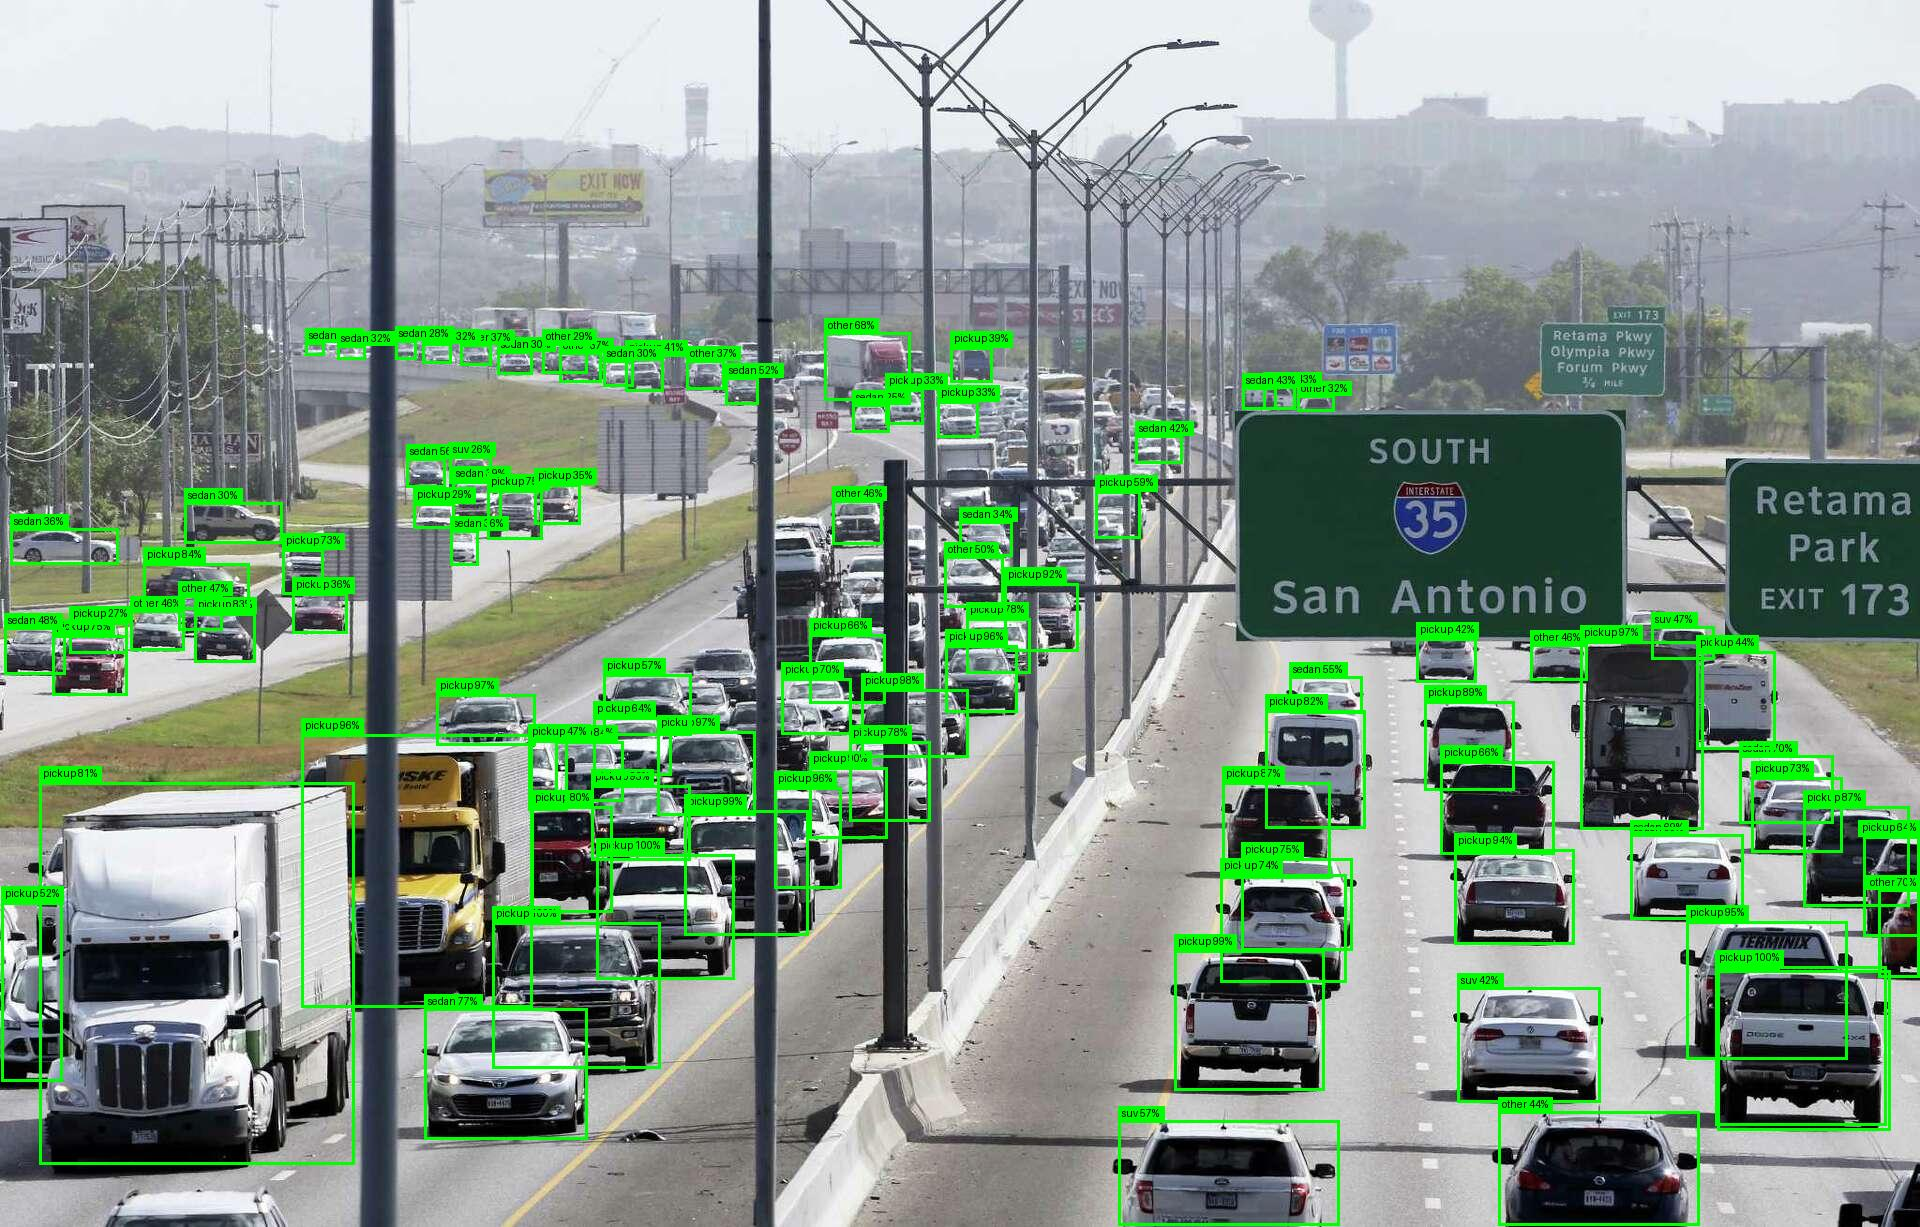
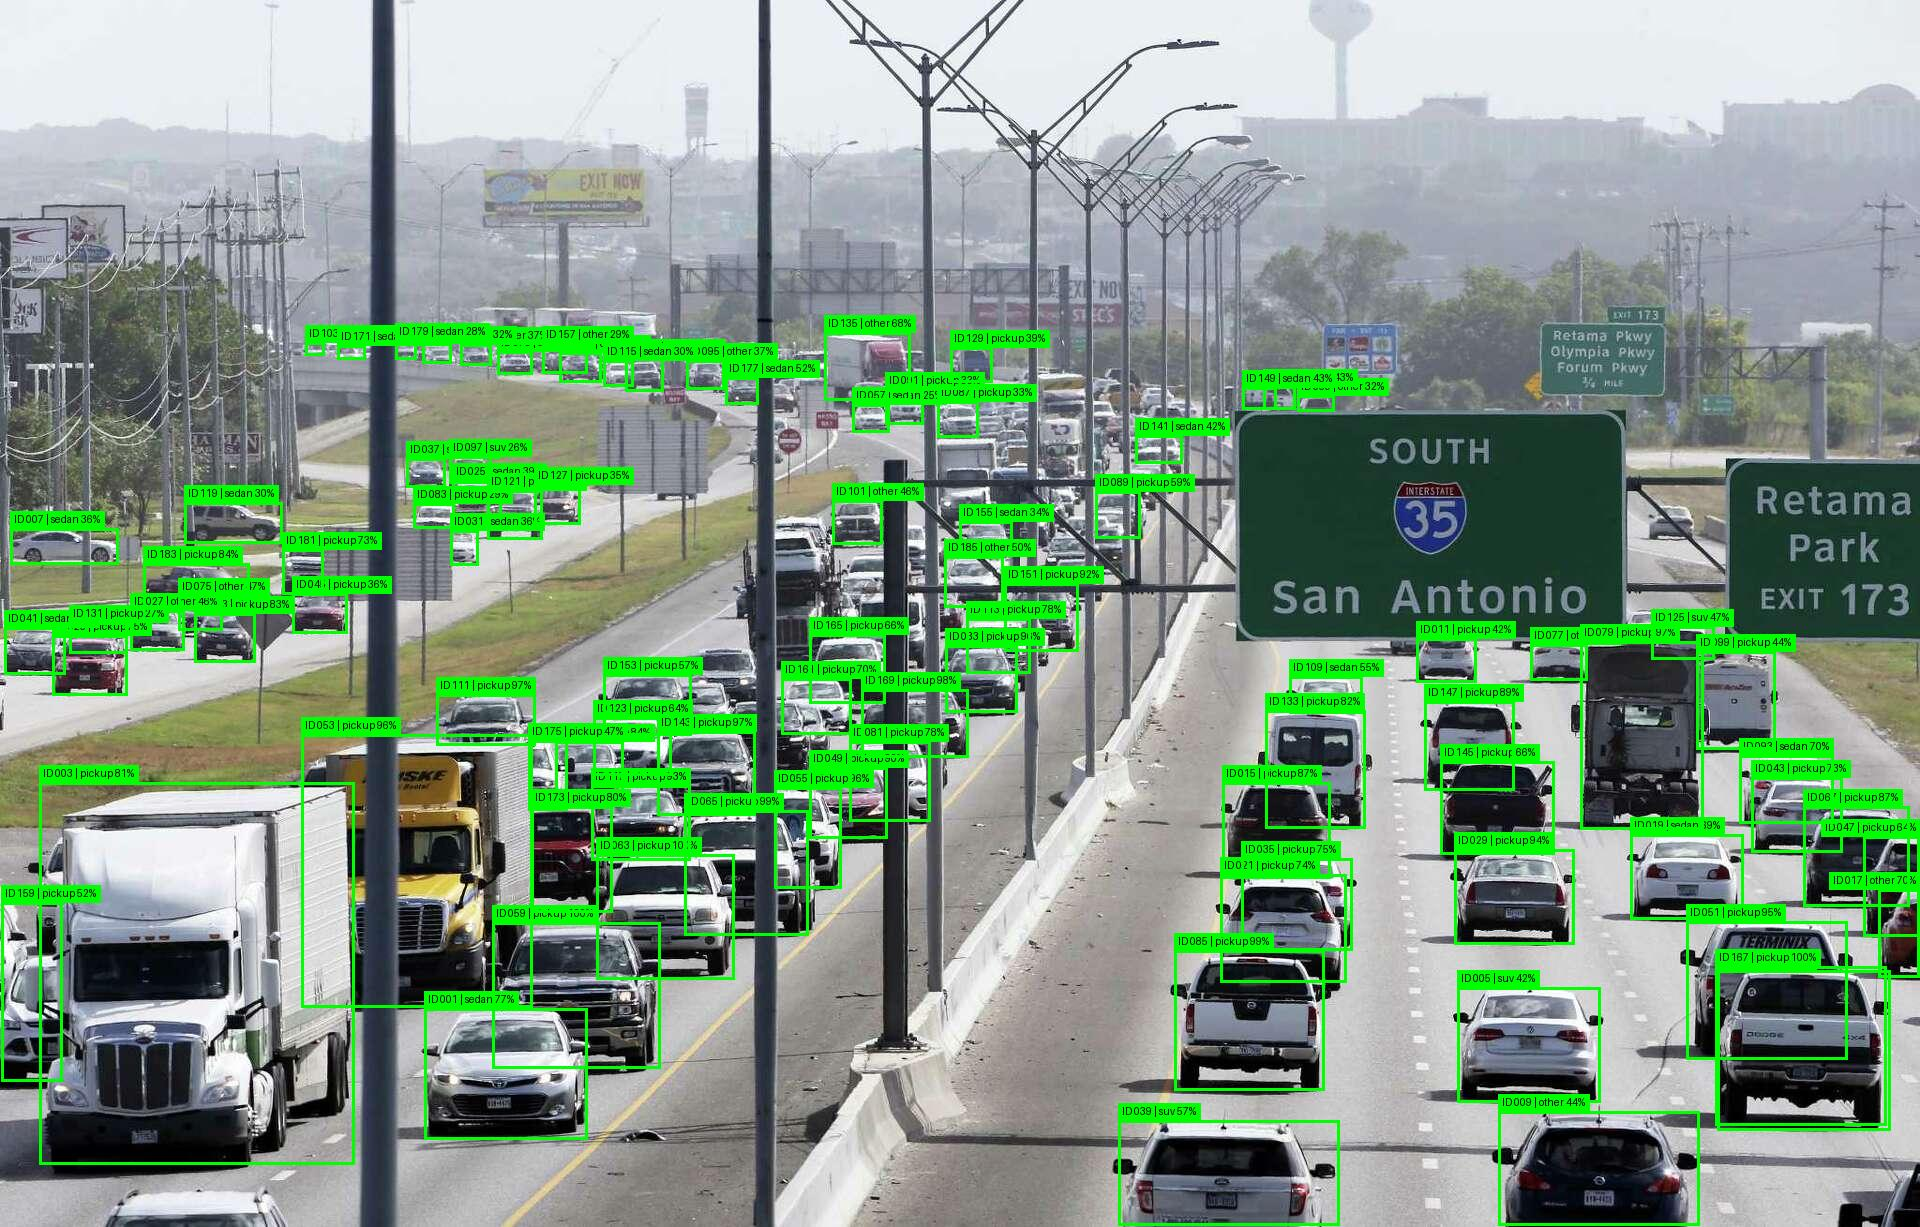
Added vehicle ID counting

diff --git a/TorchVisionLTDemo.py b/TorchVisionLTDemo.py
@@ -50,7 +50,8 @@ from torchvision.transforms.functional import to_tensor
 # ImageFolder sorts folder names alphabetically, so keep the same class order.
 CLASSES = ["hatchback","other","pickup", "sedan", "suv"]
 DEVICE = "cuda" if torch.cuda.is_available() else "cpu"
-PREPROCESS = models.ResNet18_Weights.DEFAULT.transforms()
+PREPROCESS = models.ResNet18_Weights.DEFAULT.transforms() # Creates a standard preprocessing pipeline
+# to help provide consistent images when training the model.
 
 
 
@@ -60,7 +61,7 @@ PREPROCESS = models.ResNet18_Weights.DEFAULT.transforms()
 # TorchVision provides a pretrained Mask R-CNN model trained off the
 # COCO dataset. this will be our general car identifier.
 # (maskrcnn_resnet50_fpn_v2 is the moedl name)
-
+# Create the ResNet-18 model.
 def make_classifier(pretrained=False):
     """Create ResNet-18 with four vehicle-category outputs."""
     weights = models.ResNet18_Weights.DEFAULT if pretrained else None
@@ -77,27 +78,44 @@ def make_classifier(pretrained=False):
 
 # Look at object detection pre-trained models
 
+# train function actually trains the ResNet-18 model with the
+# provided images from the folder parameter.
 def train(folder, epochs):
     """Fine-tune ResNet-18 and save its best-performing weights."""
+    
+    # Image augmentation, to edit each image so that they're consistant
+    # and can be properly used to train the model.
     augment = transforms.Compose([
-        transforms.RandomResizedCrop(224),
+        # By adding these two random transforms, we prevent the model from being "overtuned" to 
+        # very specific cases of vehicle orientation and direction.
+        transforms.RandomResizedCrop(224), 
         transforms.RandomHorizontalFlip(),
+        # Next convert the image to the single layer PyToch tensor.
         transforms.ToTensor(),
         transforms.Normalize([0.485, 0.456, 0.406], [0.229, 0.224, 0.225]),
     ])
+    
+    # Load the training and evaluation data into the program
     train_data = datasets.ImageFolder(f"{folder}/train", transform=augment)
     val_data = datasets.ImageFolder(f"{folder}/val", transform=PREPROCESS)
+    
     if train_data.classes != CLASSES or val_data.classes != CLASSES:
         raise ValueError(f"Both train/ and val/ must contain: {CLASSES}")
 
     print(f"Training on {len(train_data)} images; validating on {len(val_data)} images", flush=True)
     train_loader = DataLoader(train_data, batch_size=16, shuffle=True)
     val_loader = DataLoader(val_data, batch_size=16)
+    
+    # Initalize the neural network
     model = make_classifier(pretrained=True)
     optimizer = torch.optim.AdamW(model.parameters(), lr=0.0001)
-    loss_fn = nn.CrossEntropyLoss()
+    loss_fn = nn.CrossEntropyLoss() # Loss function is used to measure the "reward/punishment" the nn gets if it incorrectly guesses a test.
+    
     best_accuracy = -1
 
+    # This is the actual training loop repeated for the number of epochs set.
+    # Works in 4 steps:
+    # Foward Pass, Calculate Loss, Backpropagation, and Optimizer step
     for epoch in range(epochs):
         model.train()
         total_loss = 0
@@ -109,6 +127,7 @@ def train(folder, epochs):
             optimizer.step()
             total_loss += loss.item() * len(labels)
 
+    # Then finally, evalulate the trained model using the validation dataset
         model.eval()
         correct = 0
         with torch.inference_mode():
@@ -117,6 +136,8 @@ def train(folder, epochs):
                 correct += (predictions == labels.to(DEVICE)).sum().item()
 
         accuracy = correct / len(val_data)
+        
+        # Print results of the training, and then save the trained model.
         print(f"Epoch {epoch + 1}/{epochs} | "
               f"loss: {total_loss / len(train_data):.3f} | "
               f"validation accuracy: {accuracy:.1%}", flush=True)
@@ -138,6 +159,8 @@ def train(folder, epochs):
 
 # Then use the ImageFolder class to load these folders and assign labels
 
+# Detect function is now the actual work of the model,
+# used to indetify the type of cars in the model.
 def detect(image_path, output, threshold):
     """Find vehicles with Mask R-CNN and label each one using ResNet-18."""
     model = make_classifier()
@@ -172,7 +195,8 @@ def detect(image_path, output, threshold):
         with torch.inference_mode():
             probabilities = model(PREPROCESS(crop).unsqueeze(0).to(DEVICE)).softmax(dim=1)[0]
         confidence, index = probabilities.max(dim=0)
-        text = f"{CLASSES[index.item()]} {confidence.item():.0%}"
+        count += 1
+        text = f"ID {count:03d} | {CLASSES[index.item()]} {confidence.item():.0%}"
 
         draw.rectangle((x1, y1, x2, y2), outline="lime", width=3)
         bounds = draw.textbbox((0, 0), text)
@@ -186,6 +210,7 @@ def detect(image_path, output, threshold):
 
     result.save(output)
     print(f"Saved {output} with {count} detected vehicles")
+
 
 
 if __name__ == "__main__":
